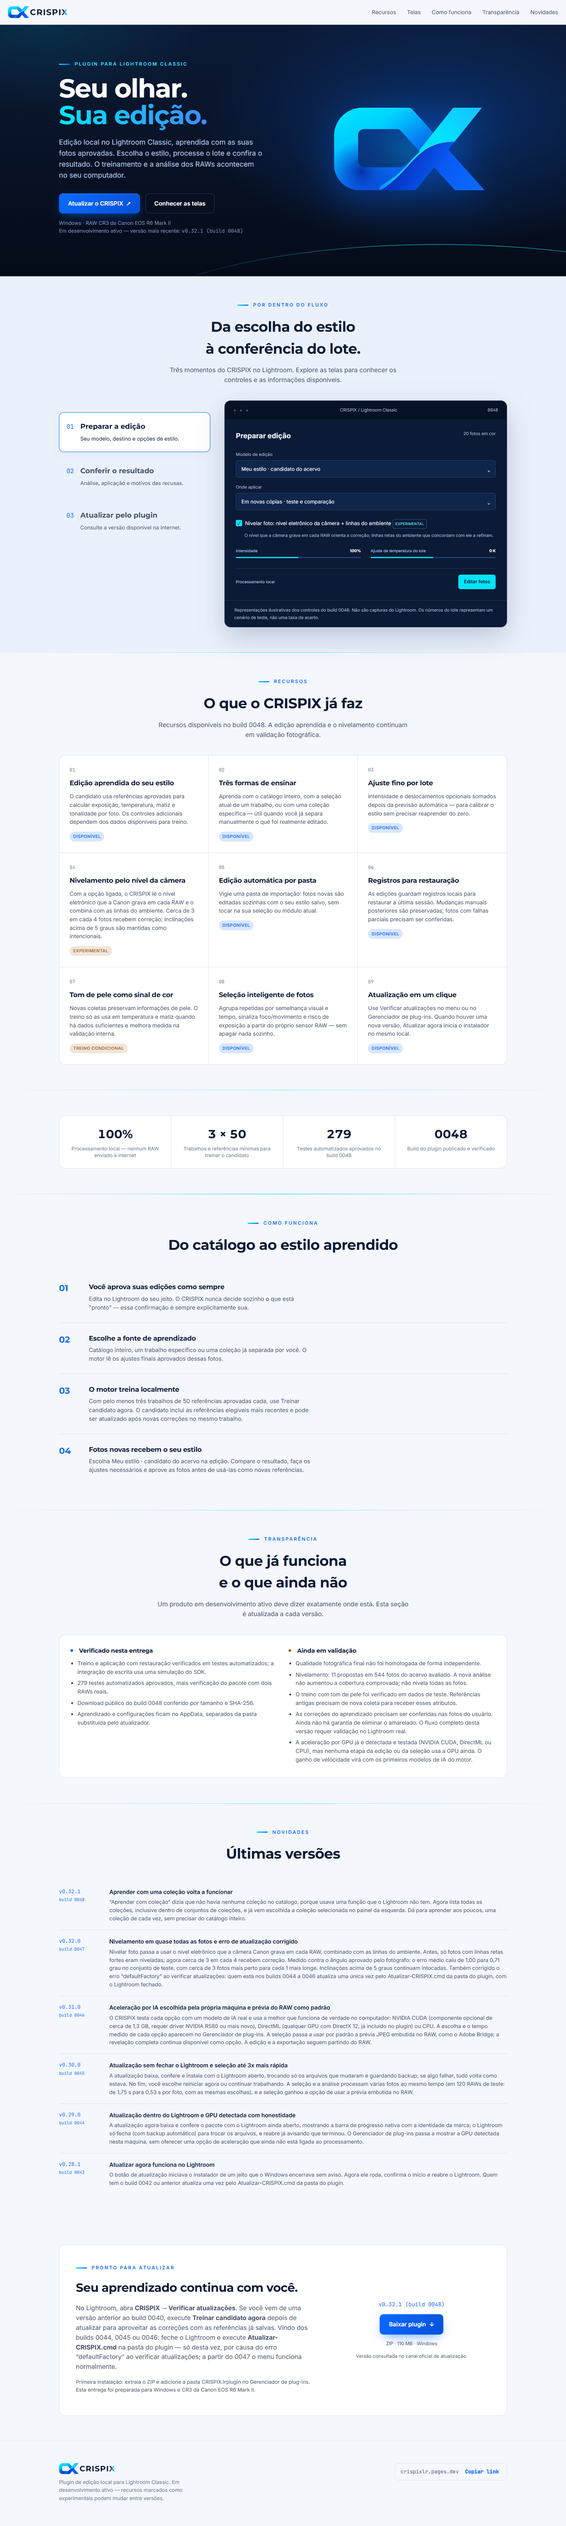
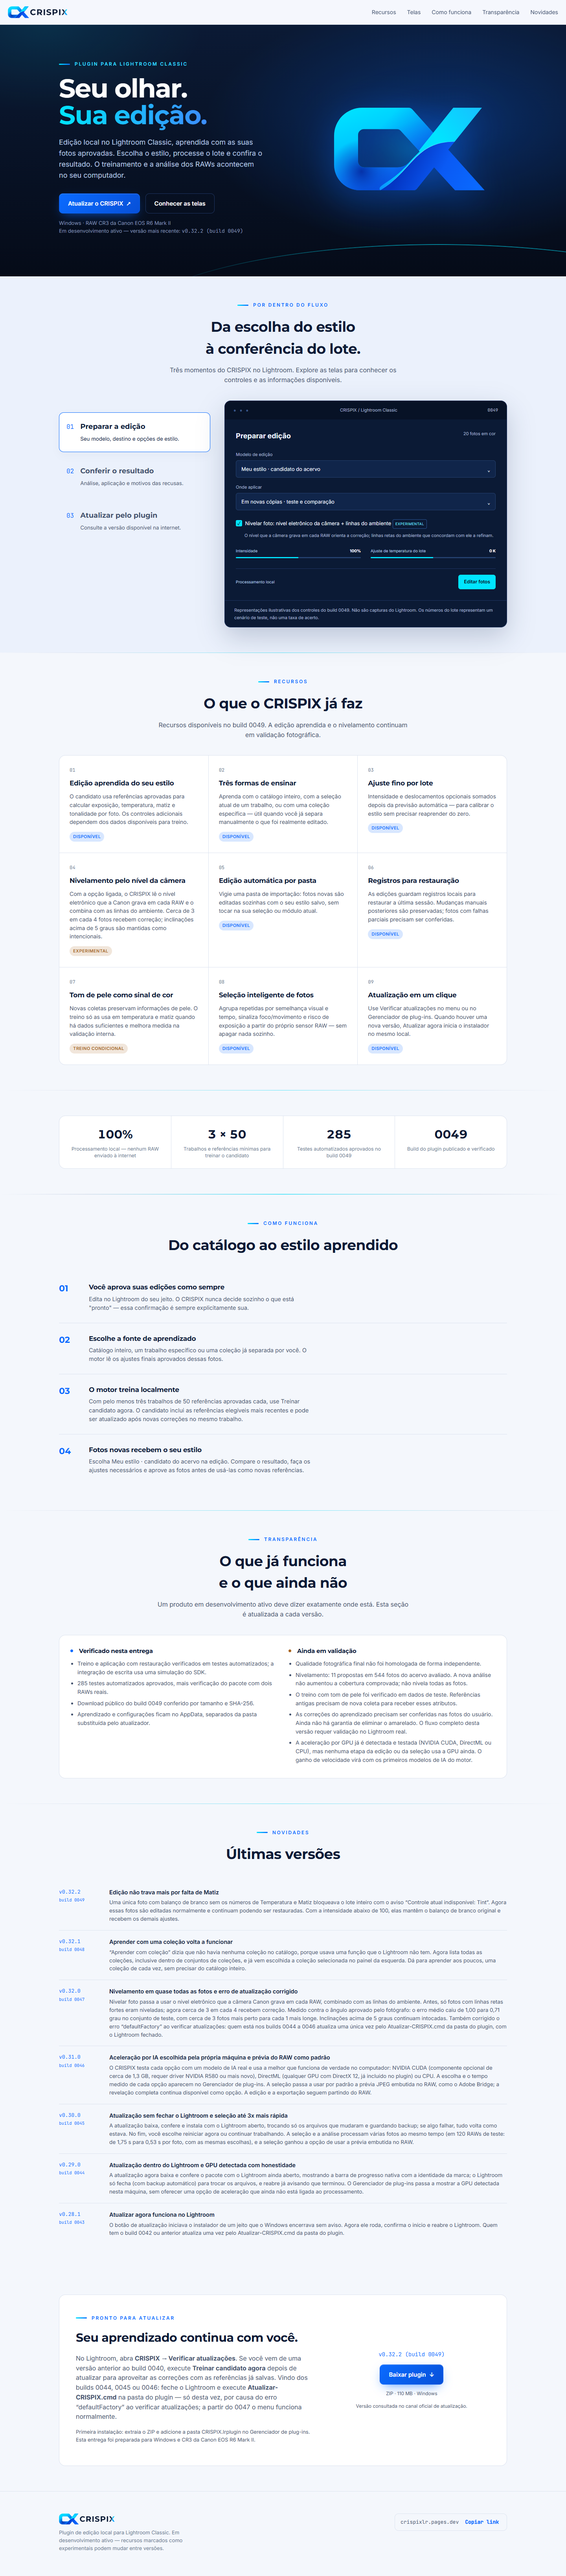
improve: registra publicacao verificada do build 0049

diff --git a/targets/mizin_lightroom/notes/49_edicao_sem_temperatura_ou_matiz.md b/targets/mizin_lightroom/notes/49_edicao_sem_temperatura_ou_matiz.md
@@ -1,0 +1,10 @@
+# Erro "Controle atual indisponivel: Tint" (build 0049)
+
+2026-11-19. `capturePhotos` exigia numero em todos os controles; balanco de branco com nome pode vir sem Temperature/Tint (1 de 3.601 fotos no catalogo: Daylight sem numeros) e uma unica foto bloqueava o lote.
+
+- Captura aceita Temperature/Tint ausentes; os outros oito controles continuam obrigatorios.
+- `M.fingerprint` ignora numeros derivados fora de WhiteBalance=Custom (o Lightroom pode preenche-los depois); `M.matches` aceita tambem hashes exatos de sessoes ate o 0048 (restauracao e AutoEdit).
+- Restauracao na grade: registro sem WhiteBalance e sem numeros volta como 'As Shot'.
+- Intensidade abaixo de 100, ou Custom sem numeros: a foto mantem o balanco de branco e recebe o resto.
+- Publicado: `evidence/publication-0049.json`. 285 testes.
+- Pendente: validar no Lightroom real (edicao e restauracao dessas fotos) e a atualizacao 0048 -> 0049 pelo menu.
